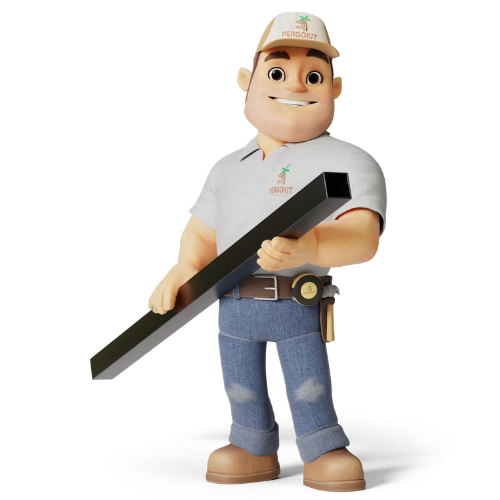
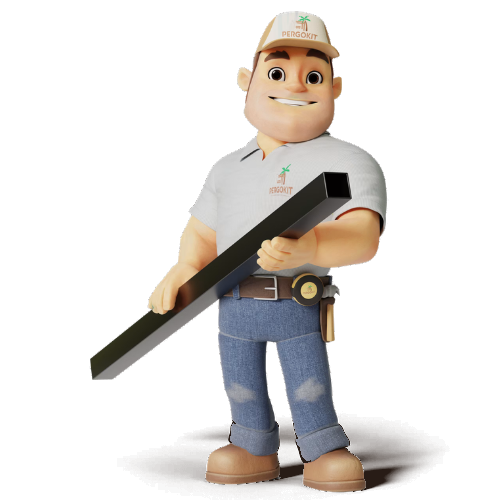
Mascote do pergolado metálico com fundo transparente

Changed region(s): [[0.69, 0.84, 0.87, 0.99], [0.48, 0.84, 0.63, 0.99], [0.3, 0.84, 0.48, 0.96]]

diff --git a/docs/seo-log.md b/docs/seo-log.md
@@ -329,3 +329,10 @@ Institucionais (`/institucional/`, `/portfolio/`, `/antes-depois/`, `/catalogos/
 - Todos os botões do conteúdo têm agora o mesmo tamanho do "Conhecer blog" (54px de altura, texto 14px), inclusive
   os do topo das páginas e os dos cards de contato, catálogos e redes sociais. Só o botão do menu continua menor.
 - No celular, os botões dos cards de contato ocupam a largura do card, para não estourar a tela.
+
+---
+
+## 2026-10-29 — Mascote sem fundo branco (pergolado metálico)
+
+- A imagem do mascote na seção "Tipos de pergolado metálico" (`src/assets/img/pergolado-metalico/tipos.png`) agora
+  tem fundo transparente, com uma sombra suave nos pés, e fica direto sobre o fundo marrom da seção.
